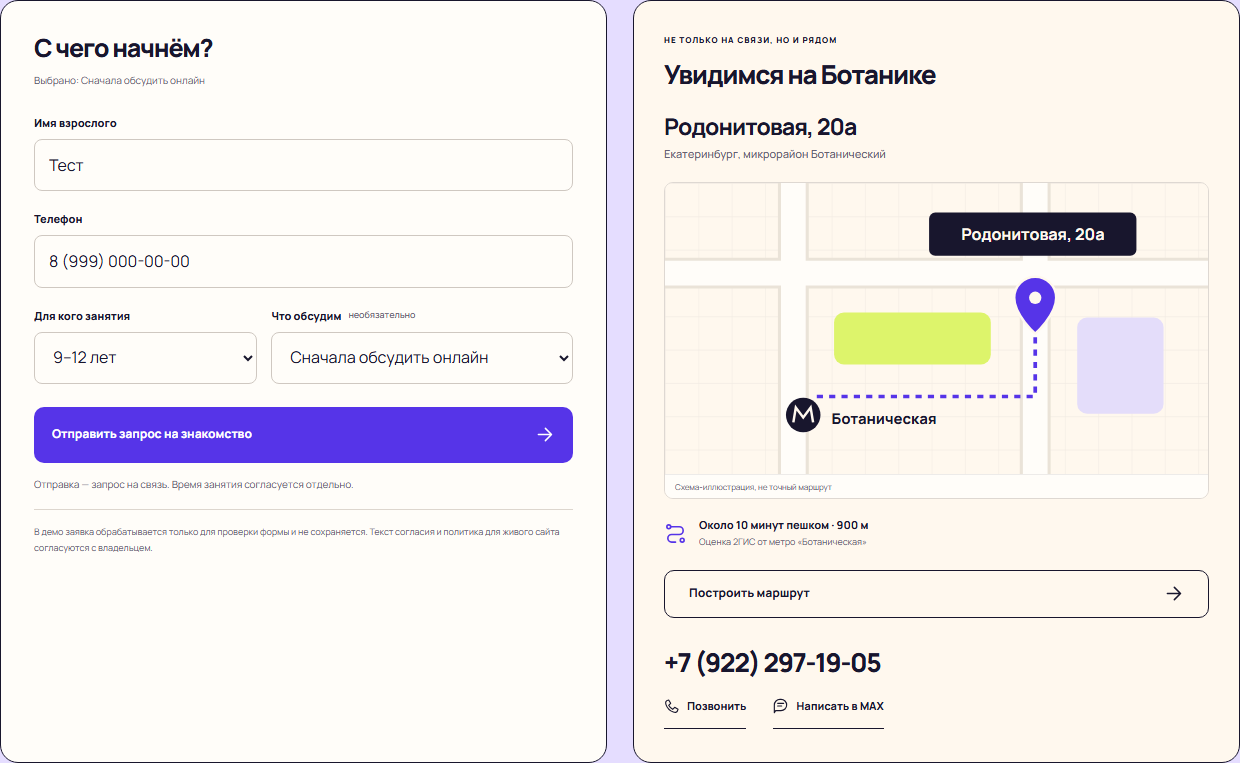
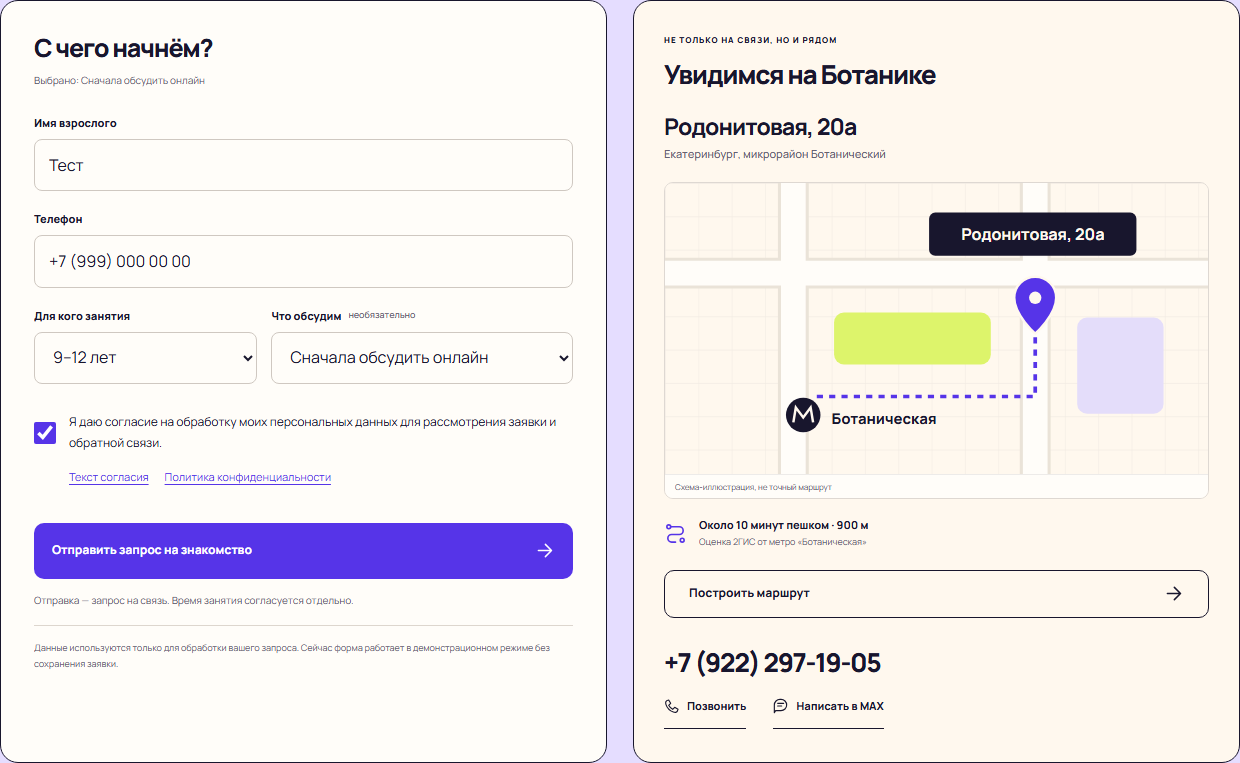
Add consent validation, legal documents and complete studio footer

Changed region(s): [[0.0, 0.5125, 0.4597, 0.8139], [0.0306, 0.844, 0.429, 0.8742], [0.0306, 0.3316, 0.1532, 0.3617]]

diff --git a/src/lib/legal-data.ts b/src/lib/legal-data.ts
@@ -1,0 +1,41 @@
+import { verifiedContacts } from './studio-data';
+
+// Fill only with owner-confirmed details. Never infer an individual or legal entity
+// from a business listing. Documents remain drafts until these fields are verified.
+export const legalDetails = {
+  operatorName: '',
+  inn: '',
+  registrationNumber: '',
+  legalAddress: '',
+  privacyEmail: '',
+  placeholders: { name: '[Наименование ИП или ООО]', inn: '[ИНН]', registration: '[ОГРН / ОГРНИП]', address: '[Юридический адрес]', email: 'privacy@example.ru' },
+  version: '14.11.2026',
+};
+
+export const legalDocuments = {
+  privacy: {
+    title: 'Политика конфиденциальности',
+    subtitle: 'Политика в отношении обработки персональных данных',
+    sections: [
+      { title: '1. Кто отвечает за обработку данных', text: `Сайт представляет студию английского языка для детей и взрослых по адресу: ${verifiedContacts.fullAddress}. Наименование и реквизиты оператора персональных данных, юридический адрес и специальный email для обращений должны быть указаны владельцем до запуска приёма реальных заявок. Название студии и адрес занятий не заменяют сведения об операторе.` },
+      { title: '2. Какие данные запрашивает форма', text: 'Имя взрослого, номер телефона, выбранная возрастная группа (либо «Для себя»), необязательный вариант формата и отметка согласия. Форма не запрашивает имя ребёнка, дату рождения, домашний адрес, сведения о здоровье или документы. Не указывайте такие сведения при обращении.' },
+      { title: '3. Для чего нужны данные', text: 'Цель формы — обработка запроса о знакомстве со студией и обсуждение подходящей программы и времени. Согласие запрашивается отдельно, до отправки; оно не распространяется на рекламные рассылки, публикацию данных или иные цели. В текущей демонстрационной версии выполняются только проверка и нормализация полей.' },
+      { title: '4. Как работает текущая версия', text: 'При нажатии кнопки поля передаются локальному серверному обработчику по адресу /api/leads, проверяются и используются для демонстрации результата. Приложение не записывает заявку в базу, файлы, журналы или localStorage, не передаёт её студии и не отправляет в MAX. После успеха имя и телефон удаляются из состояния формы; при ошибке остаются в открытой вкладке для исправления. Закрытие или перезагрузка страницы очищает их. Рабочая доставка пока не подключена.' },
+      { title: '5. Срок и операции обработки', text: 'В текущем режиме обработка ограничена приёмом, проверкой, нормализацией и использованием сведений для ответа формы в рамках одного запроса; постоянное хранение не предусмотрено. Перед включением реальных заявок владелец должен определить и опубликовать сроки хранения, порядок уничтожения, получателей, используемый хостинг и место обработки, а также обеспечить выполнение применимых требований к локализации данных граждан РФ.' },
+      { title: '6. Защита и доступ', text: 'Код проверяет поля на клиенте и сервере, ограничивает размер запроса и не публикует контактные данные в ответе API. Секреты будущей интеграции должны храниться только на сервере. Для публичного запуска необходимы HTTPS и подтверждённая владельцем конфигурация хостинга, резервирования, журналирования и доступа. Текущая политика не утверждает, что эти условия уже выполнены.' },
+      { title: '7. Ваши права и обращения', text: `Вы вправе запросить сведения об обработке, уточнение, прекращение обработки и удаление данных, отозвать согласие, а также обратиться в Роскомнадзор или суд. До указания специального email вопрос можно адресовать студии по телефону ${verifiedContacts.phone} или через её публичный контакт MAX. Не отправляйте в публичный чат документы или лишние персональные сведения. Реальные сроки и порядок обработки обращений оператор обязан согласовать до запуска.` },
+      { title: '8. Cookies и внешние ссылки', text: 'В коде этого сайта нет аналитики, рекламных пикселей и записи данных формы в cookies или localStorage. Технические журналы будущего хостинга должны быть отдельно проверены владельцем. При переходе в 2ГИС или MAX открывается внешний сервис с собственной политикой. Переход по ссылке сам по себе не отправляет туда вашу заявку.' },
+      { title: '9. Изменение политики', text: 'Актуальный текст доступен по ссылке в футере и возле формы. При изменении целей или способов обработки, подключении доставки или аналитики документы необходимо обновить до начала соответствующей обработки.' },
+    ],
+  },
+  consent: {
+    title: 'Согласие на обработку персональных данных',
+    subtitle: 'Отдельный документ для формы заявки',
+    sections: [
+      { title: 'Кому и на что даётся согласие', text: `Я, совершеннолетний пользователь, действуя свободно, своей волей и в своём интересе, даю оператору сайта студии по адресу ${verifiedContacts.fullAddress} согласие на обработку введённых мной имени взрослого, телефона, возрастной группы и выбранного формата. Полные сведения об операторе должны быть заполнены владельцем до приёма реальных заявок.` },
+      { title: 'Цель и способы обработки', text: 'Согласие относится только к обработке запроса о первом занятии и обратной связи по этому запросу. Допустимые операции: получение, проверка, нормализация и использование данных для ответа формы. В текущей версии данные обрабатываются автоматически в рамках демонстрационного запроса без постоянного хранения, передачи студии и отправки в MAX. Этот текст не даёт согласия на рекламу, рассылки, распространение или публикацию данных.' },
+      { title: 'Срок действия и отзыв', text: `В текущем демонстрационном режиме согласие действует на время обработки одного запроса. Данные не сохраняются приложением; данные в форме можно удалить, закрыв вкладку. По вопросам обработки и отзыва согласия можно связаться со студией по телефону ${verifiedContacts.phone} или в MAX. Специальный адрес для отзыва, реквизиты оператора, сроки и операции для живой обработки должны быть утверждены до её включения.` },
+      { title: 'Как подтвердить согласие', text: 'Согласие выражается отдельной отметкой в форме, изначально не установленной, и последующим нажатием кнопки отправки. Без отметки форма и сервер отклоняют запрос. Политика конфиденциальности доступна отдельно для ознакомления. Установка отметки не подтверждает покупку, договор на обучение или подписку на рекламу.' },
+    ],
+  },
+};

diff --git a/src/app/legal-footer.css b/src/app/legal-footer.css
@@ -1,0 +1,5 @@
+.consent-field{margin:8px 0 20px}.consent-row{display:grid;grid-template-columns:24px 1fr;gap:11px;align-items:start}.consent-row input{width:22px;height:22px;accent-color:var(--purple);margin:11px 0;font-size:16px;cursor:pointer}.consent-row label{display:flex;align-items:center;min-height:44px;font-size:12px;line-height:1.7;cursor:pointer}.consent-links{display:flex;flex-wrap:wrap;gap:0 16px;margin-left:35px}.consent-links a{display:inline-flex;align-items:center;min-height:44px;font-size:11px;color:var(--purple);text-decoration:underline;text-underline-offset:3px}.consent-field .field-error{margin-left:35px}.consent-row input[aria-invalid=true]{outline:2px solid #a13422;outline-offset:3px}
+.studio-footer{background:var(--ink);color:var(--cream);padding:65px 0 25px}.footer-top{display:grid;grid-template-columns:1.25fr 1fr 1fr 1.2fr;gap:40px;padding-bottom:43px}.studio-footer .logo{font-size:19px}.studio-footer .logo-icon{background:var(--lime);color:var(--ink);width:45px;height:45px}.footer-brand>p{font-size:14px;line-height:1.8;color:#e0dae9;margin-top:22px}.footer-city{display:block;font-size:11px;color:#a9a2b8;margin-top:20px}.studio-footer h3{font-size:12px;line-height:1.5;letter-spacing:0;font-weight:750;margin-bottom:17px;color:#d8cef7}.studio-footer nav>a{display:flex;align-items:center;gap:8px;min-height:44px;font-size:12px;color:var(--cream)}.studio-footer a{transition:color .2s}.studio-footer a:hover{color:var(--lime)}.studio-footer .icon{width:18px;height:18px}.studio-footer .logo-icon .icon{width:29px;height:29px}.footer-contact .footer-phone{display:flex;align-items:center;min-height:44px;font-size:20px;font-weight:750;letter-spacing:-.03em;white-space:nowrap}.footer-contact>p{font-size:12px;color:#c5bdd4;margin:10px 0 14px;line-height:1.8}.footer-max{display:flex;align-items:center;gap:9px;min-height:44px;font-size:12px;font-weight:650}.footer-max .icon:last-child{margin-left:7px}.footer-contact>span{display:block;font-size:10px;color:#a9a2b8;margin-top:12px}.footer-bottom{border-top:1px solid #ffffff25;display:flex;align-items:center;gap:25px;padding-top:21px}.footer-bottom>p{font-size:10px;color:#b9b1c9}.footer-bottom>div{display:flex;gap:25px;margin-left:auto;flex-wrap:wrap}.footer-bottom a{display:inline-flex;align-items:center;min-height:44px;font-size:10px;color:#d5cde3}.footer-up{gap:8px;margin-left:auto}.footer-up .icon{transform:rotate(-90deg);width:15px;height:15px}.footer-caption{font-size:10px;line-height:1.8;color:#aaa2ba;margin-top:13px;max-width:720px}.studio-footer a:focus-visible{outline-color:var(--lime)}
+.legal-dialog{padding:0;border:1px solid var(--ink);border-radius:18px;background:var(--cream);color:var(--ink);width:min(800px,calc(100% - 32px));max-width:calc(100% - 32px);max-height:88vh;max-height:88dvh;overscroll-behavior:contain}.legal-dialog::backdrop{background:#18162db3;backdrop-filter:blur(4px)}.legal-dialog-content{padding:30px 42px 42px}.legal-close{display:flex;gap:14px;align-items:center;justify-content:center;margin-left:auto;background:var(--ink);color:white;border-radius:8px;min-height:44px;padding:8px 16px;font-size:12px;margin-bottom:25px}.legal-close>span{font-size:22px;line-height:1}.legal-dialog .eyebrow{font-size:9px;color:var(--purple)}.legal-dialog h2{font-size:36px;margin-top:13px;overflow-wrap:anywhere}.legal-subtitle{font-size:13px;margin-top:15px}.legal-draft{padding:19px 21px;background:#f4e4bd;border:1px solid #c7a969;border-radius:10px;margin-top:25px;font-size:12px}.legal-draft p{margin-top:9px;color:#5d4b2e;line-height:1.8;overflow-wrap:anywhere}.legal-dialog section{margin-top:28px}.legal-dialog section h3{font-size:19px;letter-spacing:-.02em;line-height:1.4;color:var(--ink);margin:0}.legal-dialog section p{font-size:13px;line-height:1.9;margin-top:12px;color:#585161}.legal-dialog .button{margin-top:30px;color:white}.legal-dialog button:focus-visible,.legal-dialog a:focus-visible{outline-color:var(--purple)}
+@media(max-width:1050px){.footer-top{grid-template-columns:1fr 1fr;gap:35px 60px}.footer-bottom{flex-wrap:wrap;gap:8px 25px}.footer-bottom>div{margin-left:0}.footer-up{margin-left:auto}}
+@media(max-width:700px){.studio-footer{padding:43px 0 calc(28px + env(safe-area-inset-bottom,0px))}.footer-top{grid-template-columns:1fr 1fr;gap:30px 20px;padding-bottom:29px}.footer-brand,.footer-contact{grid-column:1 / -1}.studio-footer .logo{font-size:20px}.footer-brand>p{font-size:14px;margin-top:15px}.footer-city{font-size:11px;margin-top:13px}.studio-footer h3{font-size:11px;margin-bottom:10px}.studio-footer nav>a{font-size:11px;line-height:1.5}.footer-contact .footer-phone{font-size:26px}.footer-contact>p{font-size:12px;max-width:300px}.footer-contact>span{font-size:11px}.footer-bottom{display:grid;grid-template-columns:1fr auto;gap:8px 15px;padding-top:20px}.footer-bottom>p{font-size:10px}.footer-bottom>div{grid-column:1 / -1;grid-row:2;display:flex;flex-direction:column;gap:0}.footer-bottom a{font-size:11px}.footer-caption{font-size:10px;margin-top:14px}.legal-dialog{width:calc(100% - 24px);max-width:calc(100% - 24px);border-radius:13px}.legal-dialog-content{padding:20px 21px 28px}.legal-dialog h2{font-size:27px}.legal-dialog section h3{font-size:18px}.legal-dialog section p{font-size:13px}.legal-draft{padding:16px}.consent-row label{font-size:12px}.consent-links{gap:0}.consent-links a{font-size:11px;margin-right:14px}}

diff --git a/src/components/interactive.tsx b/src/components/interactive.tsx
@@ -3,6 +3,7 @@
 import { useEffect, useRef, useState, type FormEvent } from 'react';
 import { ageOptions, demoContent, formatOptions, verifiedContacts } from '@/lib/studio-data';
 import { validateLead, type FieldErrors, type LeadInput } from '@/lib/lead-validation';
+import { LegalLink } from './legal-documents';
 import { maskRussianPhone } from '@/lib/phone-mask';
 import { Icon, RouteArtwork } from './illustrations';
 
@@ -67,7 +68,7 @@ export function FAQ() {
 
 export function LeadForm() {
   const text = demoContent.booking;
-  const [fields, setFields] = useState<LeadInput>({ name: '', phone: '', age: '', format: '', website: '' });
+  const [fields, setFields] = useState<LeadInput>({ name: '', phone: '', age: '', format: '', website: '', consent: false });
   const [errors, setErrors] = useState<FieldErrors>({});
   const [status, setStatus] = useState<'idle' | 'pending' | 'error' | 'success'>('idle');
   const [message, setMessage] = useState('');
@@ -90,7 +91,7 @@ export function LeadForm() {
     return () => window.removeEventListener('studio:choose', listener);
   }, []);
 
-  function update(key: keyof LeadInput, value: string) {
+  function update(key: keyof LeadInput, value: string | boolean) {
     setFields(previous => ({ ...previous, [key]: value }));
     setErrors(previous => ({ ...previous, [key]: undefined }));
     if (status === 'error') { setMessage(''); setStatus('idle'); }
@@ -113,7 +114,7 @@ export function LeadForm() {
     requestAnimationFrame(() => input.setSelectionRange(position, position));
   }
   function focusError(nextErrors: FieldErrors) {
-    const field = ['name', 'phone', 'age', 'format'].find(key => nextErrors[key as keyof LeadInput]);
+    const field = ['name', 'phone', 'age', 'format', 'consent'].find(key => nextErrors[key as keyof LeadInput]);
     if (field) requestAnimationFrame(() => formRef.current?.querySelector<HTMLElement>(`[name="${field}"]`)?.focus());
   }
   async function submit(event: FormEvent<HTMLFormElement>) {
@@ -134,7 +135,7 @@ export function LeadForm() {
       }
       setStatus('success');
       // Discard contact details after successful processing; nothing is persisted.
-      setFields(previous => ({ ...previous, name: '', phone: '', website: '' }));
+      setFields(previous => ({ ...previous, name: '', phone: '', website: '', consent: false }));
       requestAnimationFrame(() => successRef.current?.focus({ preventScroll: true }));
     } catch (error) {
       setStatus('error');
@@ -161,6 +162,7 @@ export function LeadForm() {
       }} required aria-invalid={!!errors.phone} aria-describedby={errors.phone ? 'error-phone' : undefined} />{errors.phone && <p className="field-error" id="error-phone">{errors.phone}</p>}</div>
       <div className="form-row"><div className="form-field"><label htmlFor="lead-age">{text.age}</label><select id="lead-age" name="age" value={fields.age} onChange={event => update('age', event.target.value)} required aria-invalid={!!errors.age} aria-describedby={errors.age ? 'error-age' : undefined}><option value="" disabled>Выберите возраст</option>{ageOptions.map(option => <option key={option.value} value={option.value}>{option.label}</option>)}</select>{errors.age && <p className="field-error" id="error-age">{errors.age}</p>}</div><div className="form-field"><label htmlFor="lead-format">{text.format}<span>{text.optional}</span></label><select id="lead-format" name="format" value={fields.format} onChange={event => update('format', event.target.value)} aria-invalid={!!errors.format} aria-describedby={errors.format ? 'error-format' : undefined}>{formatOptions.map(option => <option key={option.value} value={option.value}>{option.label}</option>)}</select>{errors.format && <p className="field-error" id="error-format">{errors.format}</p>}</div></div>
       <div className="honeypot" aria-hidden="true"><label htmlFor="lead-website">Ваш сайт</label><input id="lead-website" name="website" autoComplete="off" tabIndex={-1} value={fields.website} onChange={event => update('website', event.target.value)} /></div>
+      <div className="consent-field"><div className="consent-row"><input id="lead-consent" name="consent" type="checkbox" checked={fields.consent} onChange={event => update('consent', event.target.checked)} required aria-invalid={!!errors.consent} aria-describedby={errors.consent ? 'error-consent' : 'consent-links'}/><label htmlFor="lead-consent">Я даю согласие на обработку моих персональных данных для рассмотрения заявки и обратной связи.</label></div><div id="consent-links" className="consent-links"><LegalLink kind="consent">Текст согласия</LegalLink><LegalLink kind="privacy">Политика конфиденциальности</LegalLink></div>{errors.consent && <p className="field-error" id="error-consent" role="alert">{errors.consent}</p>}</div>
       <button className="button button-primary submit-button" type="submit" disabled={status === 'pending'}>{status === 'pending' ? text.pending : text.submit}<Icon name="arrow" /></button>
       <p className="form-message" role="alert">{status === 'error' ? message : ''}</p>
       <p className="form-disclaimer">{text.disclaimer}</p><p className="form-consent" id="demo-privacy">{text.consent}</p>

diff --git a/tests/site.spec.ts b/tests/site.spec.ts
@@ -53,6 +53,8 @@ test('visual layout and complete demo booking journey', async ({ page }, testInf
   await expect(page.locator('.mobile-booking')).not.toHaveClass(/is-shown/);
   await page.locator('#lead-phone').fill('8 (999) 000-00-00');
   await page.locator('#lead-phone').blur();
+  await expect(page.locator('#lead-consent')).not.toBeChecked();
+  await page.locator('#lead-consent').check();
   await page.locator('.booking-grid').screenshot({ path: `artifacts/qa/${testInfo.project.name}-form.png`, animations: 'disabled', style: '.site-header,.mobile-booking,.skip-link{visibility:hidden!important}' });
 
   // One transient delivery error: values must survive and retry must work.
@@ -86,20 +88,27 @@ test('visual layout and complete demo booking journey', async ({ page }, testInf
   await expect(page.locator('.floating-sticker')).toHaveCSS('animation-name', 'none');
   await expect(page.locator('html')).toHaveCSS('scroll-behavior', 'auto');
   if ((page.viewportSize()?.width || 0) < 700) await expect(page.locator('.mobile-booking')).toHaveClass(/is-shown/);
-  for (const selector of ['#home', '#programs', '#first-lesson', '.travel-section', '.faq-section', '#booking', '#location', '.site-footer']) {
+  for (const selector of ['#home', '#programs', '#first-lesson', '.travel-section', '.faq-section', '#booking', '#location', '.studio-footer']) {
     await page.locator(selector).scrollIntoViewIfNeeded();
     await noOverflow(page);
   }
   const tooSmallFields = await page.locator('input:not([name="website"]),select').evaluateAll(elements => elements.filter(el => parseFloat(getComputedStyle(el).fontSize) < 16).length);
   expect(tooSmallFields).toBe(0);
+  await page.locator('.footer-bottom').getByRole('link', { name: 'Политика конфиденциальности' }).click();
+  await expect(page.getByRole('dialog')).toBeVisible();
+  await expect(page.getByRole('dialog')).toContainText('Проект для согласования с владельцем');
+  await page.getByRole('dialog').getByRole('button', { name: 'Закрыть документ' }).click();
+  await expect(page.getByRole('dialog')).not.toBeVisible();
+  await page.locator('.studio-footer').screenshot({path: `artifacts/qa/${testInfo.project.name}-footer.png`, animations: 'disabled', style: '.site-header,.mobile-booking,.skip-link{visibility:hidden!important}'});
   expect(errors).toEqual([]);
 });
 
 test('API rejects invalid, oversized, honeypot and cross-origin requests', async ({ request }, testInfo) => {
   test.skip(testInfo.project.name !== 'chromium-1440', 'API is engine-independent');
-  const valid = { name: 'Тест', phone: '8 (999) 000-00-00', age: '6-8', format: '', website: '' };
+  const valid = { name: 'Тест', phone: '8 (999) 000-00-00', age: '6-8', format: '', website: '', consent: true };
   const response = await request.post('/api/leads', { data: valid, headers: { origin: 'http://localhost:3000' } });
   expect(response.status()).toBe(200);
+  expect((await request.post('/api/leads', { data: { ...valid, consent: false } })).status()).toBe(400);
   expect(await response.json()).toMatchObject({ mode: 'demo', delivered: false });
   expect(response.headers()['cache-control']).toBe('no-store');
   const invalid = await request.post('/api/leads', { data: { ...valid, phone: '123', age: 'unknown' } });

diff --git a/src/components/legal-documents.tsx b/src/components/legal-documents.tsx
@@ -1,0 +1,38 @@
+'use client';
+
+import { useEffect, useRef, useState } from 'react';
+import { legalDetails, legalDocuments } from '@/lib/legal-data';
+
+type DocumentKind = keyof typeof legalDocuments;
+export function LegalLink({ kind, children }: { kind: DocumentKind; children: React.ReactNode }) {
+  return <a href={`#${kind}`} onClick={event => { event.preventDefault(); window.dispatchEvent(new CustomEvent('studio:legal', { detail: kind })); }}>{children}</a>;
+}
+
+export function LegalDocuments() {
+  const dialog = useRef<HTMLDialogElement>(null);
+  const [kind, setKind] = useState<DocumentKind>('privacy');
+  useEffect(() => {
+    let opener: HTMLElement | null = null;
+    const open = (event: Event) => {
+      const nextKind = (event as CustomEvent<DocumentKind>).detail;
+      if (!(nextKind in legalDocuments)) return;
+      opener = document.activeElement as HTMLElement;
+      setKind(nextKind);
+      dialog.current?.showModal();
+      document.body.style.overflow = 'hidden';
+      if (dialog.current) dialog.current.scrollTop = 0;
+    };
+    const close = () => { document.body.style.overflow = ''; opener?.focus({ preventScroll: true }); };
+    const element = dialog.current;
+    window.addEventListener('studio:legal', open);
+    element?.addEventListener('close', close);
+    return () => { window.removeEventListener('studio:legal', open); element?.removeEventListener('close', close); document.body.style.overflow = ''; };
+  }, []);
+  const currentDocument = legalDocuments[kind];
+  return <dialog ref={dialog} className="legal-dialog" aria-labelledby="legal-title" onClick={event => { if (event.target === dialog.current) dialog.current?.close(); }}>
+    <div className="legal-dialog-content"><button type="button" className="legal-close" aria-label="Закрыть документ" onClick={() => dialog.current?.close()}>Закрыть <span aria-hidden="true">×</span></button><span className="eyebrow">ДОКУМЕНТЫ СТУДИИ · РЕДАКЦИЯ {legalDetails.version}</span><h2 id="legal-title">{currentDocument.title}</h2><p className="legal-subtitle">{currentDocument.subtitle}</p>
+    {!legalDetails.operatorName && <div className="legal-draft"><strong>Проект для согласования с владельцем</strong><p>Реквизиты ниже — заглушки. До их замены и утверждения условий приём реальных заявок не подключён.</p><p>{legalDetails.placeholders.name}<br/>ИНН {legalDetails.placeholders.inn} · {legalDetails.placeholders.registration}<br/>{legalDetails.placeholders.address}<br/>Email: {legalDetails.placeholders.email} (пример, не адрес для обращений)</p></div>}
+    {legalDetails.operatorName && <p>{legalDetails.operatorName} · ИНН {legalDetails.inn} · ОГРН(ИП) {legalDetails.registrationNumber}<br/>{legalDetails.legalAddress}<br/>{legalDetails.privacyEmail}</p>}
+    {currentDocument.sections.map(section => <section key={section.title}><h3>{section.title}</h3><p>{section.text}</p></section>)}<button type="button" className="button button-primary" onClick={() => dialog.current?.close()}>Вернуться на сайт</button></div>
+  </dialog>;
+}

diff --git a/src/components/site-footer.tsx b/src/components/site-footer.tsx
@@ -1,0 +1,14 @@
+import { verifiedContacts as contacts } from '@/lib/studio-data';
+import { Icon } from './illustrations';
+import { LegalDocuments, LegalLink } from './legal-documents';
+
+export function SiteFooter() {
+  return <footer className="studio-footer"><div className="container">
+    <div className="footer-top"><div className="footer-brand"><a className="logo" href="#home"><span className="logo-icon"><Icon name="chat"/></span><span>Студия<br/>английского.</span></a><p>От первых фраз —<br/>к своим большим историям.</p><span className="footer-city">Екатеринбург · Ботанический</span></div>
+    <nav aria-label="Программы в футере"><h3>Английский для вас</h3><a href="#programs">Детям 6–8 лет</a><a href="#programs">Школьникам 9–12 лет</a><a href="#programs">Подросткам 13–16 лет</a><a href="#booking">Взрослым</a></nav>
+    <nav aria-label="Информация о студии"><h3>Давайте познакомимся</h3><a href="#first-lesson">Первое занятие</a><a href="#location">Как добраться</a><a href={contacts.listingUrl} target="_blank" rel="noopener noreferrer">Студия в 2ГИС <Icon name="arrow"/></a><a href="#booking">Оставить заявку <Icon name="arrow"/></a></nav>
+    <div className="footer-contact"><h3>Мы на связи</h3><a className="footer-phone" href={contacts.phoneHref}>{contacts.phone}</a><p>{contacts.fullAddress}</p><a className="footer-max" href={contacts.maxUrl} target="_blank" rel="noopener noreferrer"><Icon name="chat"/>Написать в MAX<Icon name="arrow"/></a><span>Время визита согласуем заранее</span></div></div>
+    <div className="footer-bottom"><p>© 2026 Студия английского</p><div><LegalLink kind="privacy">Политика конфиденциальности</LegalLink><LegalLink kind="consent">Согласие на обработку данных</LegalLink></div><a className="footer-up" href="#home">Наверх<Icon name="arrow"/></a></div>
+    <p className="footer-caption">Информация о программах носит ознакомительный характер. Стоимость, расписание и условия занятий уточняйте у студии.</p>
+  </div><LegalDocuments/></footer>;
+}

diff --git a/src/app/page.tsx b/src/app/page.tsx
@@ -1,3 +1,4 @@
+import { SiteFooter } from '@/components/site-footer';
 import { demoContent as content, verifiedContacts as contacts } from '@/lib/studio-data';
 import { HeroArtwork, Icon, LocalMap } from '@/components/illustrations';
 import { FAQ, LeadForm, MiniLesson, PageEffects, SelectButton, TravelPlanner } from '@/components/interactive';
@@ -38,7 +39,7 @@ export default function Home() {
         <div className="booking-grid"><LeadForm/><aside className="contact-card" id="location" aria-labelledby="contact-heading"><span className="eyebrow">{content.booking.contactEyebrow}</span><h3 id="contact-heading">{content.booking.contactsTitle}</h3><p className="contact-address">{contacts.address}<span>{contacts.city}, микрорайон {contacts.district}</span></p><div className="map-wrap"><LocalMap/><span>{content.booking.mapNote}</span></div><div className="walk-info"><Icon name="route"/><div><strong>{contacts.walkEstimate}</strong><small>{contacts.walkSource}</small></div></div><a className="button button-outline" href={contacts.directionsUrl} target="_blank" rel="noopener noreferrer">{content.booking.route}<Icon name="arrow"/></a><a className="contact-phone" href={contacts.phoneHref}>{contacts.phone}</a><div className="contact-links"><a className="text-link" href={contacts.phoneHref}><Icon name="phone"/>{content.booking.call}</a><a className="text-link" href={contacts.maxUrl} target="_blank" rel="noopener noreferrer"><Icon name="chat"/>{content.booking.max}</a></div></aside></div>
       </div></section>
     </main>
-    <footer className="site-footer container"><Logo/><p>{content.footer.note}<br/><a href="#demo-privacy">{content.footer.privacy}</a></p><a className="back-top text-link" href="#home">{content.footer.top}<Icon name="arrow"/></a></footer>
+    <SiteFooter/>
     <PageEffects/>
   </>;
 }

diff --git a/src/lib/lead-validation.ts b/src/lib/lead-validation.ts
@@ -1,6 +1,6 @@
 import { ageOptions, formatOptions } from './studio-data';
 
-export type LeadInput = { name: string; phone: string; age: string; format: string; website: string };
+export type LeadInput = { name: string; phone: string; age: string; format: string; website: string; consent: boolean };
 export type Lead = Omit<LeadInput, 'website'>;
 export type FieldErrors = Partial<Record<keyof LeadInput, string>>;
 
@@ -23,6 +23,7 @@ export function validateLead(value: unknown): { lead?: Lead; errors: FieldErrors
   if (!ageOptions.some(option => option.value === input.age)) errors.age = 'Выберите возрастную группу или «Для себя».';
   if (!formatOptions.some(option => option.value === input.format)) errors.format = 'Выберите один из предложенных вариантов.';
   if (typeof input.website !== 'string' || input.website.length !== 0) errors.website = 'Не удалось проверить форму. Обновите страницу и попробуйте снова.';
+  if (input.consent !== true) errors.consent = 'Для отправки заявки необходимо согласие на обработку персональных данных.';
   if (Object.keys(errors).length) return { errors };
-  return { lead: { name, phone: phone!, age: input.age as string, format: input.format as string }, errors };
+  return { lead: { name, phone: phone!, age: input.age as string, format: input.format as string, consent: true }, errors };
 }

diff --git a/src/lib/studio-data.ts b/src/lib/studio-data.ts
@@ -112,7 +112,7 @@ export const demoContent = {
     formTitle: 'С чего начнём?', name: 'Имя взрослого', phone: 'Телефон', age: 'Для кого занятия', format: 'Что обсудим', optional: 'необязательно',
     submit: 'Отправить запрос на знакомство', pending: 'Проверяем форму…',
     disclaimer: 'Отправка — запрос на связь. Время занятия согласуется отдельно.',
-    consent: 'В демо заявка обрабатывается только для проверки формы и не сохраняется. Текст согласия и политика для живого сайта согласуются с владельцем.',
+    consent: 'Данные используются только для обработки вашего запроса. Сейчас форма работает в демонстрационном режиме без сохранения заявки.',
     success: 'Заявка успешно отправлена! Скоро с вами свяжутся.',
     successDetail: 'Это демонстрация записи: сообщение в MAX не отправлено. Для настоящей записи позвоните или напишите в студию.',
     another: 'Вернуться к форме', call: 'Позвонить', max: 'Написать в MAX', route: 'Построить маршрут',

diff --git a/src/app/layout.tsx b/src/app/layout.tsx
@@ -1,6 +1,7 @@
 import type { Metadata, Viewport } from 'next';
 import '@fontsource-variable/manrope';
 import './globals.css';
+import './legal-footer.css';
 import { demoContent } from '@/lib/studio-data';
 
 const allowIndexing = process.env.ALLOW_INDEXING === 'true';

diff --git a/README.md b/README.md
@@ -57,6 +57,14 @@ npm start
 
 ## Подключение живой доставки — после согласования
 
+### Политика и отдельное согласие
+
+В футере и рядом с формой доступны отдельные документы «Политика конфиденциальности» и «Согласие на обработку персональных данных». Они открываются в доступном модальном окне, закрываются кнопкой или Escape с возвратом фокуса. Чекбокс согласия изначально снят; `consent: true` обязателен и на клиенте, и на сервере. Согласие не объединено с рекламой или договором на обучение.
+
+Тексты и сведения об операторе редактируются в `src/lib/legal-data.ts`. По запросу владельца предусмотрены **явные заглушки** для ИП/ООО, ИНН, ОГРН(ИП), юридического адреса и email (`privacy@example.ru` — пример, не реальный контакт). Настоящие публичные телефон и адрес студии сохранены. Документы помечены как проекты до замены реквизитов и согласования; заполнение реквизитов само по себе не включает доставку и не подтверждает юридическую готовность.
+
+При переходе к живой обработке нужно согласовать тексты и основание обработки, уведомление Роскомнадзора при применимости, локализацию и хостинг, фактические сроки хранения/удаления, получателей и канал отзыва; предусмотреть подтверждение факта согласия с версией текста и временем. Эти данные не сохраняются в текущем демо. Сведения в документах должны соответствовать фактической работе сайта. Ориентиры: [статья 9 № 152-ФЗ](https://www.consultant.ru/document/cons_doc_LAW_61801/6c94959bc017ac80140621762d2ac59f6006b08c/), [статья 18.1 № 152-ФЗ](https://www.consultant.ru/document/cons_doc_LAW_61801/).
+
 Живая отправка, вебхук и аналитика намеренно не реализованы. Точка подключения — `sendLeadNotification` на сервере. Для будущей интеграции:
 
 1. Владелец создаёт бота MAX и получает токен.

diff --git a/artifacts/qa/verification.md b/artifacts/qa/verification.md
@@ -1,5 +1,7 @@
 # Проверка демосайта — 14 ноября 2026
 
+Дополнение по документам и футеру: добавлены политика, отдельное согласие и обязательный чекбокс с проверкой `consent: true` на сервере. Сборка успешна; повторный прогон Chromium 320, 390 и 1440 px — 4 passed, 2 skipped (API выполняется один раз). Проверены снятый по умолчанию чекбокс, отказ API без согласия, полный путь записи с отметкой, открытие и закрытие политики, отсутствие горизонтального скролла; просмотрены снимки футера на 320 и 1440 px. Документы содержат явно обозначенные заглушки реквизитов по запросу пользователя.
+
 Дополнение: обновлён заголовок успеха и добавлена маска `+7 (999) 999 99 99`. Production-сборка и повторный сценарий Chromium 390 px прошли. Отдельно проверены посимвольный ввод, вставка номера с `8`, удаление у разделителя и полная очистка поля. Успех по-прежнему содержит пояснение об отсутствии отправки в MAX.
 
 Проверялась локальная production-сборка Next.js 16.4.6 / React 19.3.1 на Windows, Node.js 24.22.0, Playwright 1.65.1. Публикация не выполнялась.
